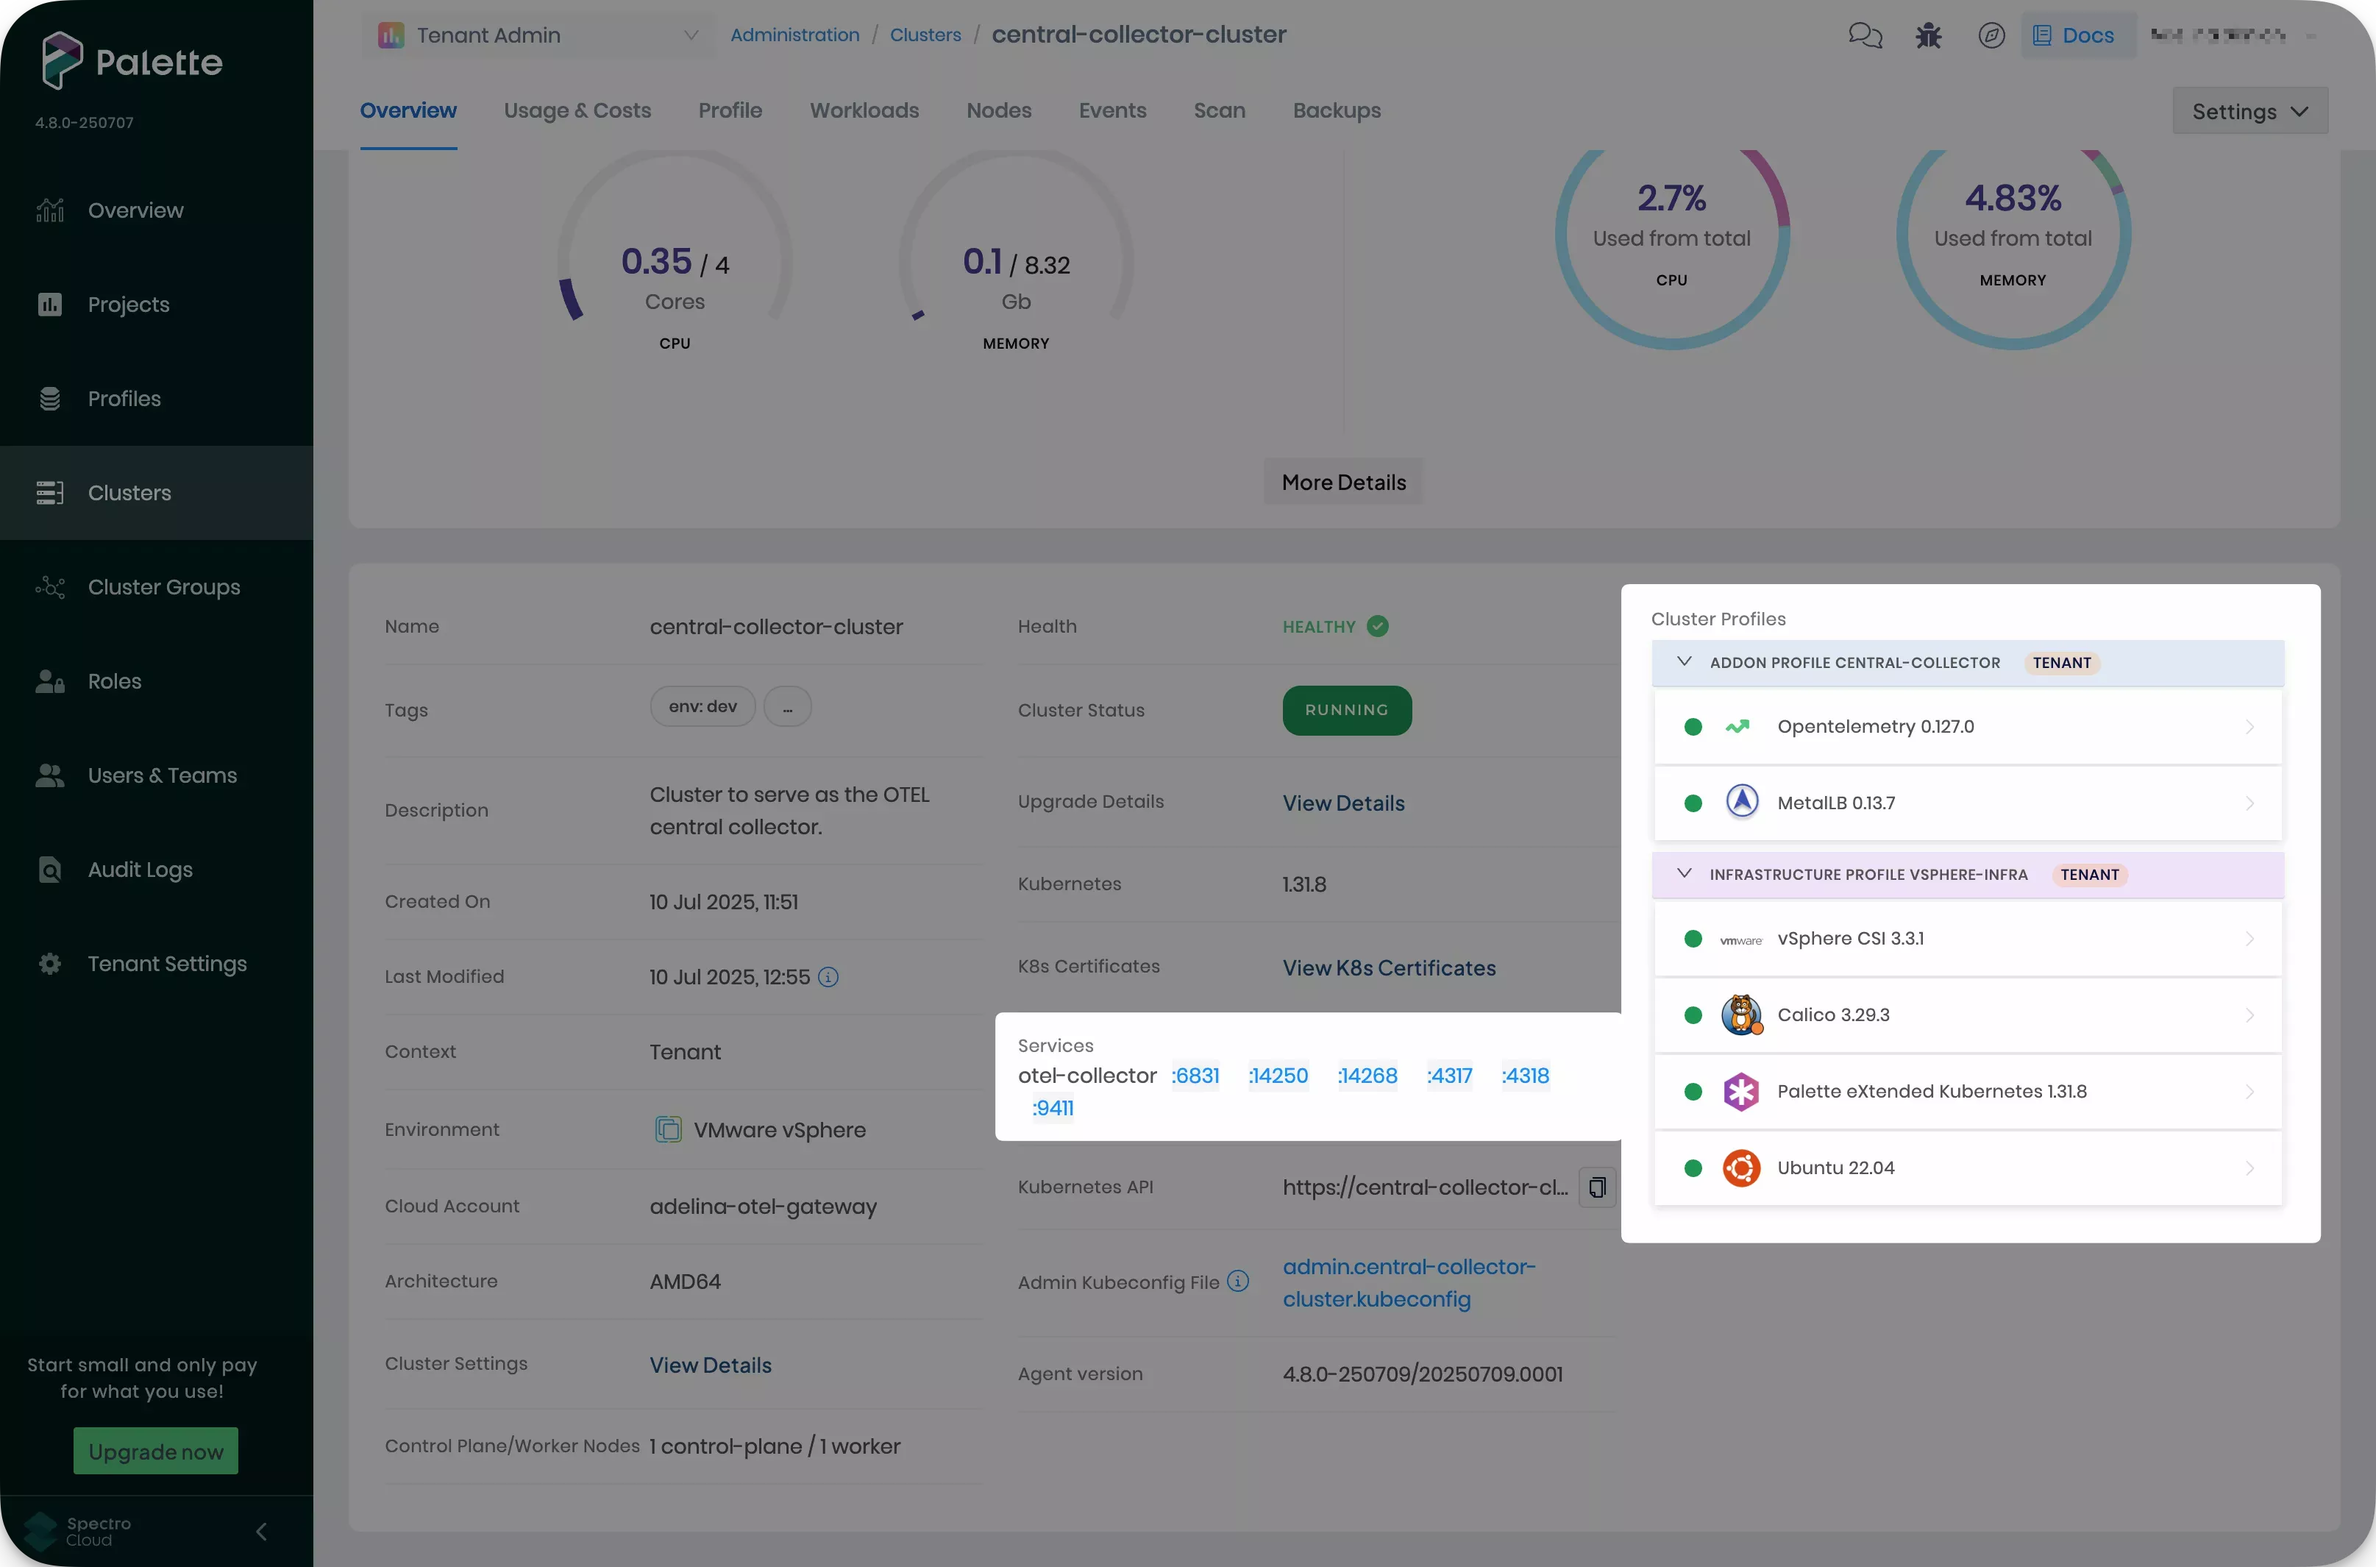
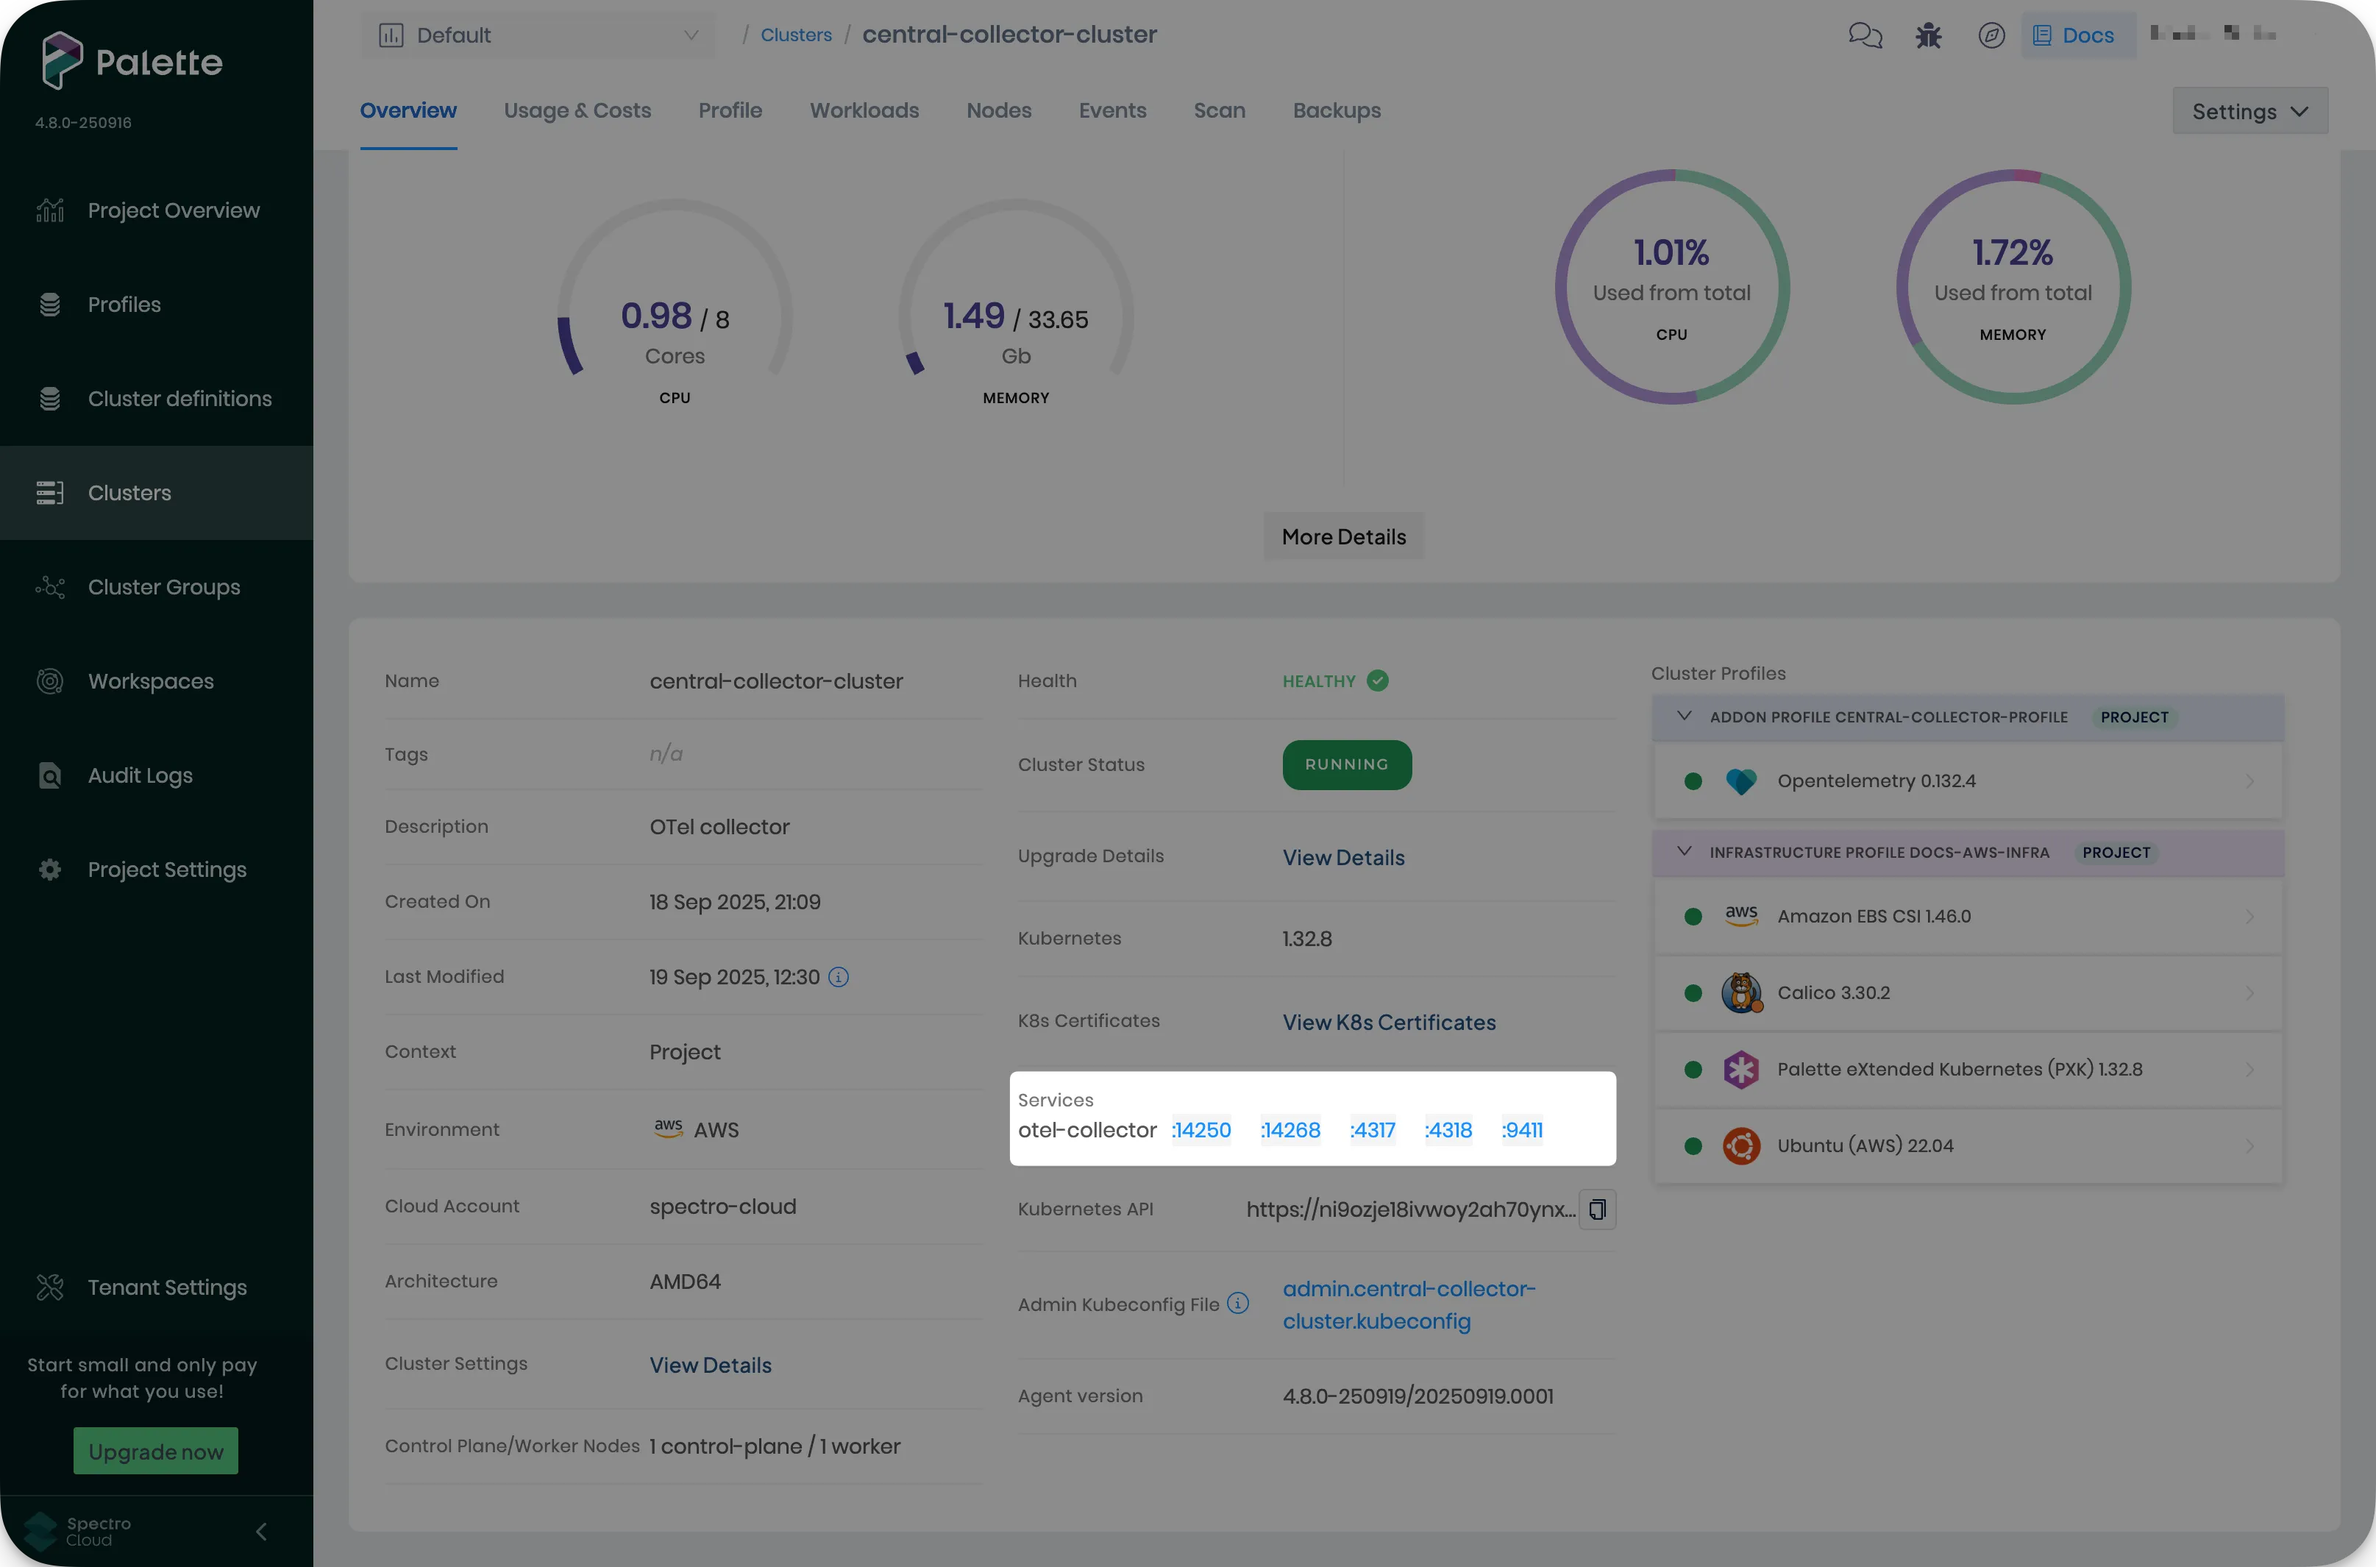
docs: adjust OTel guide DOC-2134

diff --git a/docs/docs-content/clusters/cluster-management/monitoring/open-telemetry.md b/docs/docs-content/clusters/cluster-management/monitoring/open-telemetry.md
@@ -41,8 +41,8 @@ reducing duplication.
 ## Prerequisites
 
 - A Palette account.
-- Three or more healthy [VMware](../../data-center/vmware/vmware.md), [MAAS](../../data-center/maas/maas.md) or
-  [Edge](../../edge/edge.md) clusters.
+- Three or more healthy [Public Cloud](../../public-cloud/public-cloud.md),
+  [Data Center](../../data-center/data-center.md) or [Edge](../../edge/edge.md) clusters.
 - Network connectivity between the clusters.
 
 ## Deploy an OpenTelemetry Monitoring Stack
@@ -63,11 +63,11 @@ them to your deployed healthy clusters.
     Add the following packs in your cluster profile with customizations that suit your environment. Then, select
     **Next**.
 
-    | **Pack**     | **Version** | **Registry**           | **Customization**                                                                                                                                                                                                   |
-    | ------------ | ----------- | ---------------------- | ------------------------------------------------------------------------------------------------------------------------------------------------------------------------------------------------------------------- |
-    | MetalLB      | 0.13.x      | Palette Registry (OCI) | Set an IP range that is available in your environment in the `manifests.metallb.addresses` field.                                                                                                                   |
-    | PostgreSQL   | 1.22.x      | Palette Registry (OCI) | No customization required.                                                                                                                                                                                          |
-    | Open Observe | 0.14.x      | Palette Registry (OCI) | Set a user email in the `charts.openobserve.auth.ZO_ROOT_USER_EMAIL` field or leave the default value of `admin@openobserve.dev`. Set a user password in the `charts.openobserve.auth.ZO_ROOT_USER_PASSWORD` field. |
+    | **Pack**     | **Version** | **Registry**           | **Customization**                                                                                                                                                                                                                                                          |
+    | ------------ | ----------- | ---------------------- | -------------------------------------------------------------------------------------------------------------------------------------------------------------------------------------------------------------------------------------------------------------------------- |
+    | MetalLB      | 0.13.x      | Palette Registry (OCI) | This pack is only required for Data Center and Edge clusters. Set an IP range that is available in your environment in the `manifests.metallb.addresses` field.                                                                                                            |
+    | PostgreSQL   | 1.22.x      | Palette Registry (OCI) | No customization required.                                                                                                                                                                                                                                                 |
+    | Open Observe | 0.14.x      | Palette Registry (OCI) | Set a user email in the `charts.openobserve.auth.ZO_ROOT_USER_EMAIL` field or leave the default value of `admin@openobserve.dev`. Set a user password in the `charts.openobserve.auth.ZO_ROOT_USER_PASSWORD` field. Set `charts.openobserve.config.ZO_LOCAL_MODE` to true. |
 
     Construct a Base64 encoding of the credentials you have configured in the format `useremail:password` in the Open
     Observe pack. For example, the string `admin@openobserve.dev:admin` is encoded to
@@ -75,6 +75,17 @@ them to your deployed healthy clusters.
 
     Review the configuration you have provided and click **Finish Configuration** to save your cluster profile. This
     profile configures and deploys the Open Observe dashboard.
+
+    :::tip
+
+    The Open Observe pack allows you to save metrics information on the pod or in an S3 bucket. This guide saves metrics
+    on the pod. Provide the following configurations if you want to persist your metrics to an existing S3 bucket.
+
+        - Set `charts.openobserve.config.ZO_LOCAL_MODE` to false.
+        - Fill in an access key in the field `charts.openobserve.auth.ZO_S3_ACCESS_KEY` and a secret key in the field `charts.openobserve.auth.ZO_S3_SECRET_KEY`.
+        - Fill in the region of your S3 bucket in the field `charts.openobserve.config.ZO_S3_REGION_NAME` and the name of your bucket in the field `charts.openobserve.config.ZO_S3_BUCKET_NAME`.
+
+    :::
 
 4.  Navigate to the left main menu and select **Clusters** to view the cluster profile page. Select one of the healthy
     clusters that you have deployed as a prerequisite to this guide. The **Overview** tab appears.
@@ -107,11 +118,22 @@ them to your deployed healthy clusters.
 
     | **Pack**       | **Version** | **Registry**           | **Customization**                                                                                                                                                                                                                                                                                                                                                                                                                                                                                                                                                                                                                                                                                                                                                                                                                                                                                                           |
     | -------------- | ----------- | ---------------------- | --------------------------------------------------------------------------------------------------------------------------------------------------------------------------------------------------------------------------------------------------------------------------------------------------------------------------------------------------------------------------------------------------------------------------------------------------------------------------------------------------------------------------------------------------------------------------------------------------------------------------------------------------------------------------------------------------------------------------------------------------------------------------------------------------------------------------------------------------------------------------------------------------------------------------- |
-    | MetalLB        | 0.13.x      | Palette Registry (OCI) | Set an IP range that is available in your environment in the `manifests.metallb.addresses` field.                                                                                                                                                                                                                                                                                                                                                                                                                                                                                                                                                                                                                                                                                                                                                                                                                           |
-    | Open Telemetry | 0.127.x     | Palette Registry (OCI) | Click **Presets**. Select **Enable** under the **central-collector** section and select **OpenObserve** under the **export** section. Replace the domain placeholder in the `charts.opentelemetry-collector.config.exporters.otlphttp/openobserve.endpoint` field with the service address of the exporter service you deployed in the [Create and Deploy the Exporter Cluster Profile](#create-and-deploy-the-exporter-cluster-profile) section. Replace the password placeholder in the `charts.opentelemetry-collector.config.exporters.otlphttp/openobserve.headers.Authorization` field with the Base64-encoded value you made a note of in Step 3 of the [Create and Deploy the Exporter Cluster Profile](#create-and-deploy-the-exporter-cluster-profile) section, keeping the prefix `Basic`. For example, `Basic YWRtaW5Ab3Blbm9ic2VydmUuZGV2OmFkbWl` uses the encoded sample value `admin@openobserve.dev:admin`. |
+    | MetalLB        | 0.13.x      | Palette Registry (OCI) | This pack is only required for Data Center and Edge clusters. Set an IP range that is available in your environment in the `manifests.metallb.addresses` field.                                                                                                                                                                                                                                                                                                                                                                                                                                                                                                                                                                                                                                                                                                                                                             |
+    | Open Telemetry | 0.132.x     | Palette Registry (OCI) | Click **Presets**. Select **Enable** under the **central-collector** section and select **OpenObserve** under the **export** section. Replace the domain placeholder in the `charts.opentelemetry-collector.config.exporters.otlphttp/openobserve.endpoint` field with the service address of the exporter service you deployed in the [Create and Deploy the Exporter Cluster Profile](#create-and-deploy-the-exporter-cluster-profile) section. Replace the password placeholder in the `charts.opentelemetry-collector.config.exporters.otlphttp/openobserve.headers.Authorization` field with the Base64-encoded value you made a note of in Step 3 of the [Create and Deploy the Exporter Cluster Profile](#create-and-deploy-the-exporter-cluster-profile) section, keeping the prefix `Basic`. For example, `Basic YWRtaW5Ab3Blbm9ic2VydmUuZGV2OmFkbWl` uses the encoded sample value `admin@openobserve.dev:admin`. |
 
     Review the configuration you have provided and click **Finish Configuration** to save your cluster profile. This
     profile configures and deploys the Open Telemetry central collector.
+
+    :::info
+
+    The OpenTelemetry pack supports auto-instrumentation for Java, Python, Node.js, .NET and Go applications. This
+    capability allows you to collect traces, metrics, and logs from your applications without changing their source
+    code. You can enable the instrumentation by adding annotations to your workloads.
+
+    Refer to the <VersionedLink text="OpenTelemetry Collector" url="/integrations/packs/?pack=opentelemetry" /> pack
+    documentation for further details.
+
+    :::
 
 3.  Navigate to the left main menu and select **Clusters** to view the cluster profile page. Select one of the healthy
     clusters that you have deployed as a prerequisite to this guide. The **Overview** tab appears.
@@ -123,7 +145,7 @@ them to your deployed healthy clusters.
     configuration and click **Save**.
 
 4.  Select the **Overview** tab and monitor the progress of your add-on profile. This may take a few minutes. You will
-    find six services deployed once the add-on profile is correctly applied.
+    find five services deployed once the add-on profile is correctly applied.
 
     Make a note of the address of the services by copying the link under port **4317**.
 
